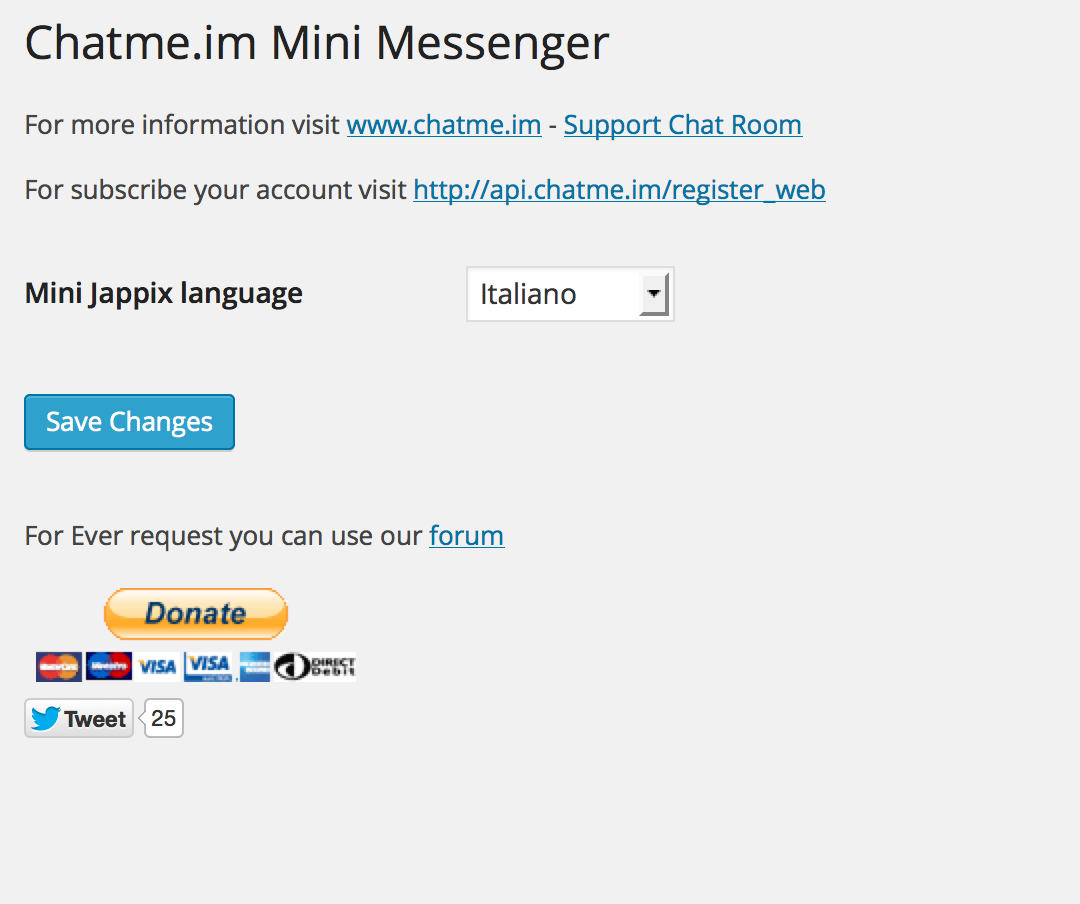
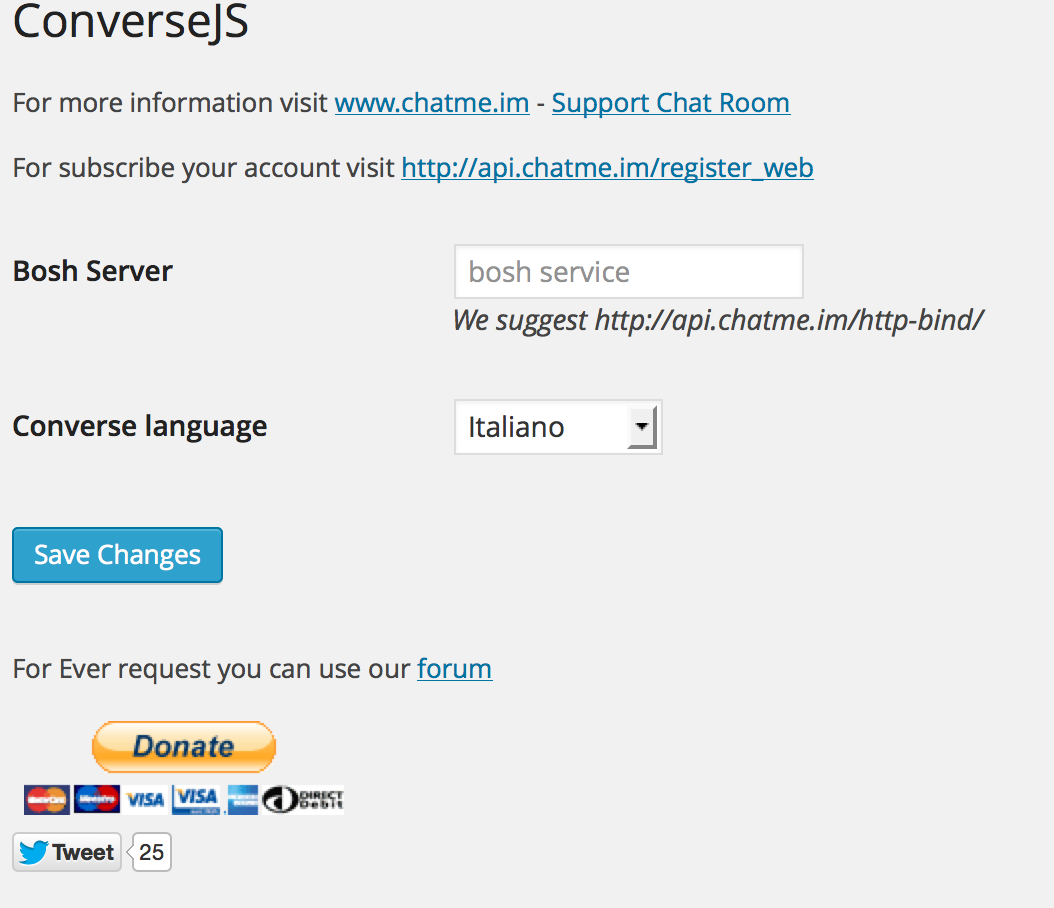
1.0.1 bug fix
git-svn-id: https://plugins.svn.wordpress.org/conversejs/trunk@838556 b8457f37-d9ea-0310-8a92-e5e31aec5664

diff --git a/conversejs.php b/conversejs.php
@@ -2,8 +2,8 @@
 /*
 Plugin Name: ConverseJS
 Plugin URI: https://conversejs.org/
-Description: This plugin add the javascript code for Chatme.im Mini Messenger a Jabber/XMPP chat for your WordPress.
-Version: 1.0
+Description: This plugin add the javascript code for Converse.js a Jabber/XMPP chat for your WordPress.
+Version: 1.0.1
 Author: camaran
 Author URI: http://www.chatme.im
 */
@@ -28,26 +28,25 @@ Author URI: http://www.chatme.im
 //Custom Variables (YOU NOT EDIT)
 $GLOBALS['converse_url'] = "https://converse.chatme.im"; 	//converse installation
 
-add_action('wp_head', 'get_chatme_mini_head');
-add_action('wp_footer', 'get_chatme_mini_footer');
-add_action('admin_menu', 'chatme_mini_menu');
-add_action('admin_init', 'register_mysettings' );
+add_action('wp_head', 'get_converse_head');
+add_action('wp_footer', 'get_converse_footer');
+add_action('admin_menu', 'converse_menu');
+add_action('admin_init', 'register_converse_mysettings' );
 
 add_action( 'init', 'my_plugin_init' );
 
 function my_plugin_init() {
       $plugin_dir = basename(dirname(__FILE__));
-      load_plugin_textdomain( 'chatmeim-mini-messenger', null, $plugin_dir . '/languages/' );
+      load_plugin_textdomain( 'conversejs-lng', null, $plugin_dir . '/languages/' );
 }
 
-function get_chatme_mini_head() {
-		
-	$lng = get_option('language');
+function get_converse_head() {
+	
 	echo "\n".'<link rel="stylesheet" type="text/css" href="'.$GLOBALS['converse_url'].'/converse.css">';
 	echo "\n".'<script type="text/javascript" src="'.$GLOBALS['converse_url'].'/builds/converse.min.js"></script>';
 }
 
-function get_chatme_mini_footer() {
+function get_converse_footer() {
 
 	if(get_option('language') == '')
 		$lng = "en";
@@ -76,39 +75,39 @@ echo "\n".'<!-- Messenger -->
 	<div id="conversejs"></div>';
 }
 
-function chatme_mini_menu() {
-  add_options_page('ConverseJS', 'ConverseJS', 'manage_options', 'my-unique-identifier', 'mini_jappix_options');
+function converse_menu() {
+  add_options_page('ConverseJS', 'ConverseJS', 'manage_options', 'converse-identifier', 'converse_options');
 }
 
-function register_mysettings() {
+function register_converse_mysettings() {
 	//register our settings
-	register_setting('mini_chat_msn', 'language');
-	register_setting('mini_chat_msn', 'join_groupchats');
+	register_setting('converse_options_list', 'language');
+	register_setting('converse_options_list', 'bosh');
 }
 
-function mini_jappix_options() {
+function converse_options() {
   if (!current_user_can('manage_options'))  {
-    wp_die( __('You do not have sufficient permissions to access this page.', 'chatmeim-mini-messenger') );
+    wp_die( __('You do not have sufficient permissions to access this page.', 'conversejs-lng') );
   }
  ?>
  <div class="wrap">
-<h2>Chatme.im Mini Messenger</h2>
-<p><?php _e("For more information visit <a href='http://www.chatme.im' target='_blank'>www.chatme.im</a>", 'chatmeim-mini-messenger'); ?> - <a href="https://webchat.chatme.im/?r=support" target="_blank">Support Chat Room</a></p>
-<p><?php _e("For subscribe your account visit <a href='http://api.chatme.im/register_web' target='_blank'>http://api.chatme.im/register_web</a>", 'chatmini'); ?></p> 
+<h2>ConverseJS</h2>
+<p><?php _e("For more information visit <a href='http://www.chatme.im' target='_blank'>www.chatme.im</a>", 'conversejs-lng'); ?> - <a href="https://webchat.chatme.im/?r=support" target="_blank">Support Chat Room</a></p>
+<p><?php _e("For subscribe your account visit <a href='http://api.chatme.im/register_web' target='_blank'>http://api.chatme.im/register_web</a>", 'conversejs-lng'); ?></p> 
 
 <form method="post" action="options.php">
-    <?php settings_fields( 'mini_chat_msn' ); ?>
+    <?php settings_fields( 'converse_options_list' ); ?>
     <table class="form-table">
     
         <tr valign="top">
-        <th scope="row"><?php _e("Bosh Server", 'chatmeim-mini-messenger'); ?></th>
+        <th scope="row"><?php _e("Bosh Server", 'conversejs-lng'); ?></th>
         <td>
-        <input id="bosh" name="bosh" type="url" placeholder="bosh service" value="<?php echo get_option('language'); ?>">
+        <input id="bosh" name="bosh" type="url" placeholder="bosh service" value="<?php echo get_option('bosh'); ?>"><br/><em><?php _e("We suggest http://api.chatme.im/http-bind/", 'conversejs-lng'); ?></em>
         </td>
         </tr>    
     
         <tr valign="top">
-        <th scope="row"><?php _e("Mini Jappix language", 'chatmeim-mini-messenger'); ?></th>
+        <th scope="row"><?php _e("Converse language", 'conversejs-lng'); ?></th>
         <td>
         <select id="language" name="language">
         <option value="de" <?php selected('de', get_option('language')); ?>>Deutsch</option>
@@ -126,7 +125,7 @@ function mini_jappix_options() {
     </table>
     
     <p class="submit">
-    <input type="submit" class="button-primary" value="<?php _e('Save Changes', 'chatmeim-mini-messenger') ?>" />
+    <input type="submit" class="button-primary" value="<?php _e('Save Changes', 'conversejs-lng') ?>" />
     </p>
     <p>For Ever request you can use our <a href="http://chatme.im/forums" target="_blank">forum</a></p>
 
